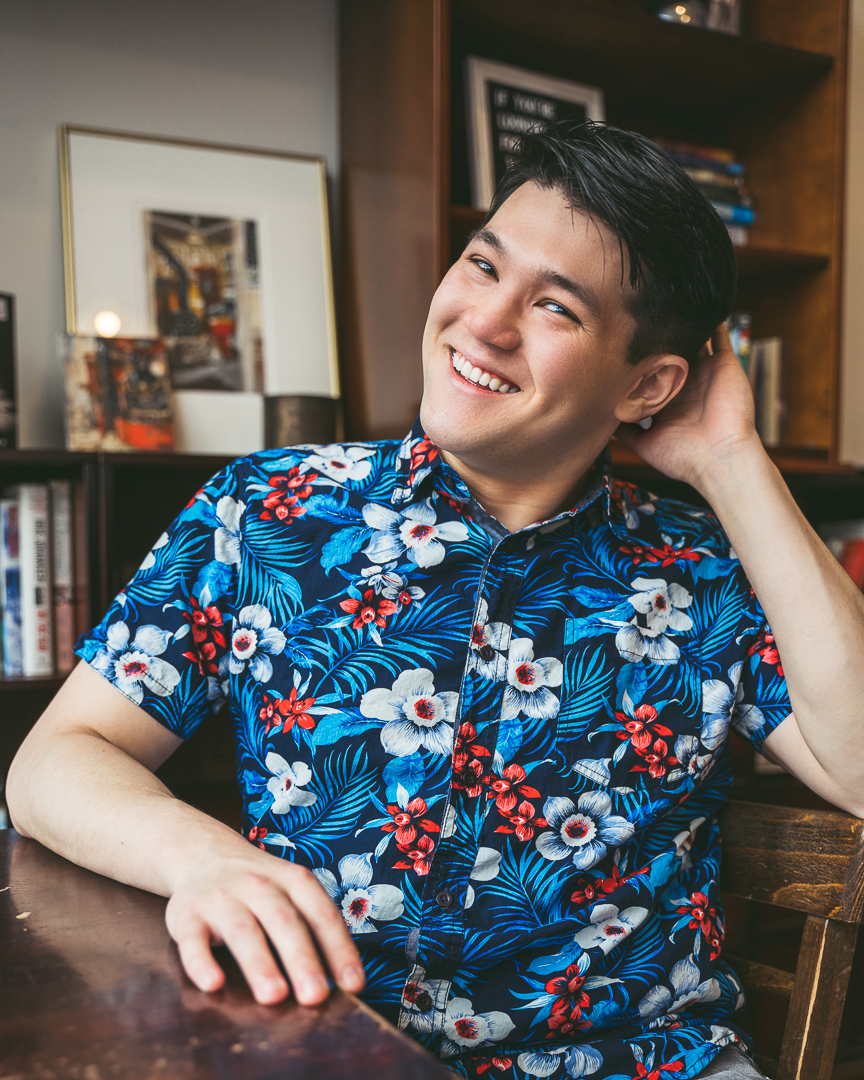
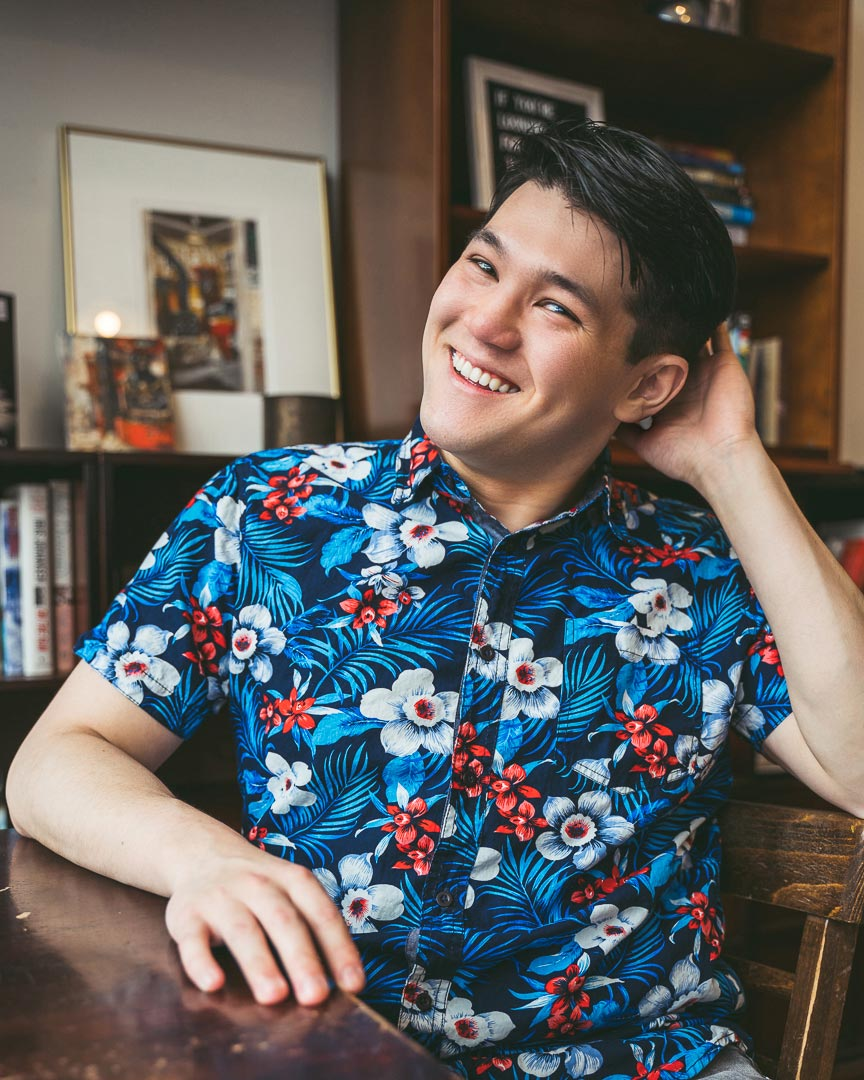
refactored list styls, resized images for optimization, added connect 4  to projects, need to work on experiences

diff --git a/index.html b/index.html
@@ -35,7 +35,7 @@
         </ul>
       </div>
       <div class="links">
-        <ul class="link-list lists">
+        <ul class="link-list">
           <li><a href="https://github.com/cmjoy136" target="_blank" rel="noopener noreferrer"><i
                 class="fab fa-github"></i></a></li>
           <li>
@@ -51,7 +51,7 @@
     </div>
     <div class="content">
       <div class="page-head">
-        
+        <!-- image of me, carousel of resume -->
       </div>
       <div class="parallax-container"></div>
       <section class="about-me">
@@ -95,11 +95,30 @@
               </p>
             </div>
           </div>
+          <div class="project">
+            <div class="project-icon">
+              <a href="https://cmjoy136.github.io/connect-4/" target="_blank" rel="noopener noreferrer">
+              <img class="project-icon connect4" alt="connect 4 icon"/>
+              </a>
+            </div>
+            <div class="project-text">
+              <a href="https://cmjoy136.github.io/connect-4/" target="_blank" rel="noopener noreferrer">
+              <h4>Connect 4</h4>
+              </a>
+              <span>JavaScript,HTML, and CSS</span>
+              <p>
+                Connect 4 game designed with HTML and CSS and functionality being handled with base JavaScript. Play with a friend and see who can connect four pieces horizontally, vertically and diagonally to win! Style is based off the Persona 5 game.
+              </p>
+            </div>
+          </div>
         </div>
       </section>
       <section class="experience">
         <h2>Experience</h2>
         <h4>Here are the technologies I am skilled at!</h4>
+        <!-- tech stack -->
+        
+        <!-- personality and skills -->
       </section>
       <div></div>
     </div>

diff --git a/css/styles.css b/css/styles.css
@@ -5,6 +5,7 @@ html {
   font-family: "Lato";
   font-size: 20px;
   scroll-behavior: smooth;
+  overscroll-behavior: none;
   background-color: gainsboro;
 }
 
@@ -76,11 +77,22 @@ html {
   max-width: 85%;
 }
 
-.lists{
+ul{
   list-style-type: none;
+  padding: 0;
 }
 
+.lists{
+  list-style-type: none;
+  display: flex;
+  flex-direction: column;
+  align-items: center;
+  justify-content: center;
+}
+
+
 .link-list > li {
+  display: block;
   width: 1em;
   height: auto;
   margin: 2px;
